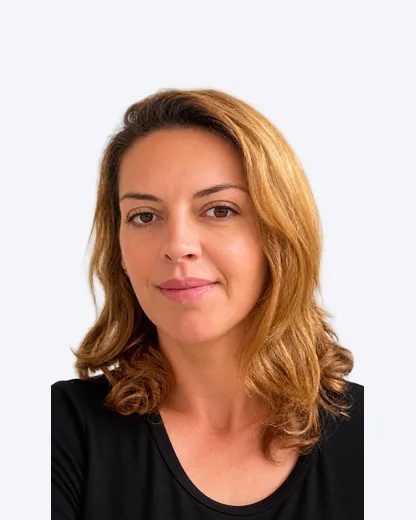
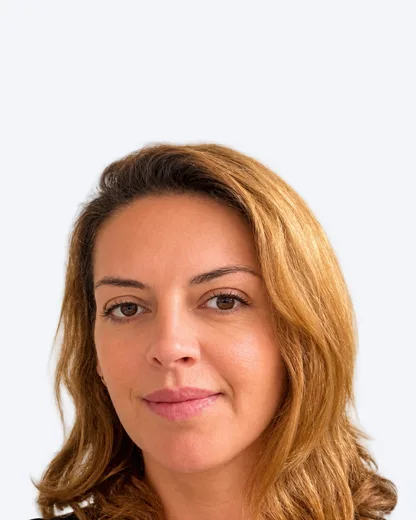
Teamfoto Zelije Selimi ohne sichtbare Kanten, Funktion Allrounderin
Die Freistellung beruehrt unterhalb der Schultern den Bildrand; das Bild ist
nun oberhalb davon beschnitten und mit Hintergrund ergaenzt, damit keine
Rechtecke am unteren Rand erscheinen.

diff --git a/docs/13-referenzinventar.md b/docs/13-referenzinventar.md
@@ -41,4 +41,4 @@ Videos: Felder `video`, `videoposter` und `videotext` bei den Referenzen (`src/k
 
 Logos: Die 43 Logodateien der Kundschaft sind bis auf Lidl in der zentralen Liste (46 Einträge inklusive NEP und Swiss Football League aus V3). Lidl ist in `scripts/logos-verarbeiten.mjs` bewusst ausgeschlossen (rundes Mehrfarb-Badge ohne Rand ergibt keine erkennbare weisse Silhouette).
 
-Team: Angaben vom 21. September 2026 (Funktion, Mobilnummer, E-Mail der vier Technikerinnen und Techniker) stimmen mit `content/team` überein. Porträt von Zelije Selimi am 7. Oktober 2026 ergänzt: freigestelltes PNG der Kundschaft auf den gleichen hellen Hintergrund wie die anderen Porträts gesetzt (416 x 520 px, WebP). Die Porträts von David Thuma, Christian Colaci und Edwin Stefanov fehlen weiterhin (Platzhalter). m.weber@lwl-techniker.ch ist nicht mehr auf der Website. UID CHE-302.905.008 MWST im Impressum ergänzt.
+Team: Angaben vom 21. September 2026 (Funktion, Mobilnummer, E-Mail der vier Technikerinnen und Techniker) stimmen mit `content/team` überein. Porträt von Zelije Selimi am 7. Oktober 2026 ergänzt: freigestelltes PNG der Kundschaft auf den gleichen hellen Hintergrund wie die anderen Porträts gesetzt, oberhalb der Stelle beschnitten, an der die Freistellung den Bildrand berührt, damit keine Kanten sichtbar sind (416 x 520 px, WebP). Funktion auf Wunsch der Kundschaft "Allrounderin". Die Porträts von David Thuma, Christian Colaci und Edwin Stefanov fehlen weiterhin (Platzhalter). m.weber@lwl-techniker.ch ist nicht mehr auf der Website. UID CHE-302.905.008 MWST im Impressum ergänzt.
